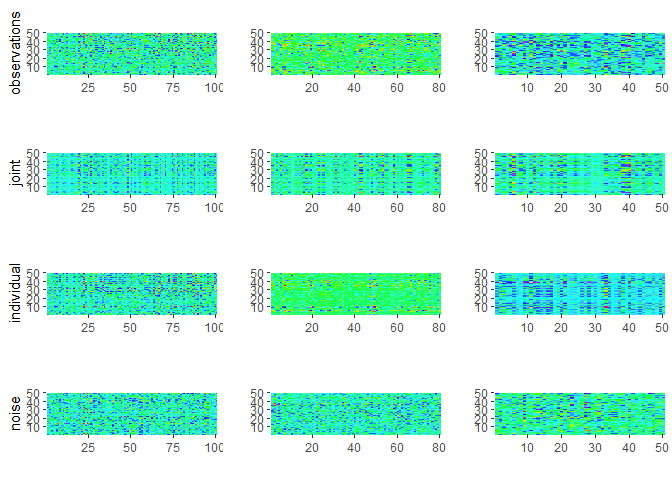
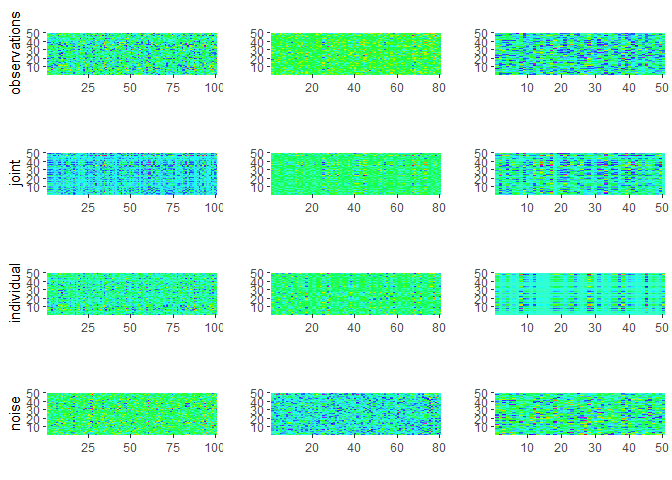
updated Rmd

diff --git a/README.md b/README.md
@@ -11,8 +11,8 @@ RaJIVE (Robust Angle based Joint and Individual Variation Explained) is
 a robust alternative to the aJIVE method for the estimation of joint and
 individual components in the presence of outliers in multi-source data.
 It decomposes the multi-source data into joint, individual and residual
-(noise) contributions. The decomposition is robust to outliers and noise
-in the data.
+(noise) contributions. The decomposition is robust with respect to
+outliers and other types of noises present in the data.
 
 ## Installation
 
@@ -63,7 +63,7 @@ source specific) and residual component for each data source.
 ``` r
 
 get_joint_rank(ajive.results.robust)
-#> [1] 2
+#> [1] 3
 ```
 
   - Individual ranks:
@@ -74,12 +74,18 @@ get_joint_rank(ajive.results.robust)
 get_individual_rank(ajive.results.robust, 1)
 #> [1] 5
 get_individual_rank(ajive.results.robust, 2)
-#> [1] 4
+#> [1] 3
 get_individual_rank(ajive.results.robust, 3)
-#> [1] 2
+#> [1] 1
 ```
 
   - Heatmap decomposition:
+
+<!-- end list -->
+
+``` r
+decomposition_heatmaps_robustH(data.ajive, ajive.results.robust)
+```
 
 <img src="man/figures/README-unnamed-chunk-3-1.png" width="100%" />
 
@@ -90,11 +96,11 @@ get_individual_rank(ajive.results.robust, 3)
 ``` r
 showVarExplained_robust(ajive.results.robust, data.ajive)
 #> $Joint
-#> [1] 0.2593522 0.3434991 0.4227304
+#> [1] 0.3148569 0.3349692 0.4197429
 #> 
 #> $Indiv
-#> [1] 0.5531262 0.4515610 0.2835723
+#> [1] 0.5499653 0.4156423 0.1522468
 #> 
 #> $Resid
-#> [1] 0.1875216 0.2049399 0.2936973
+#> [1] 0.1351778 0.2493886 0.4280103
 ```
